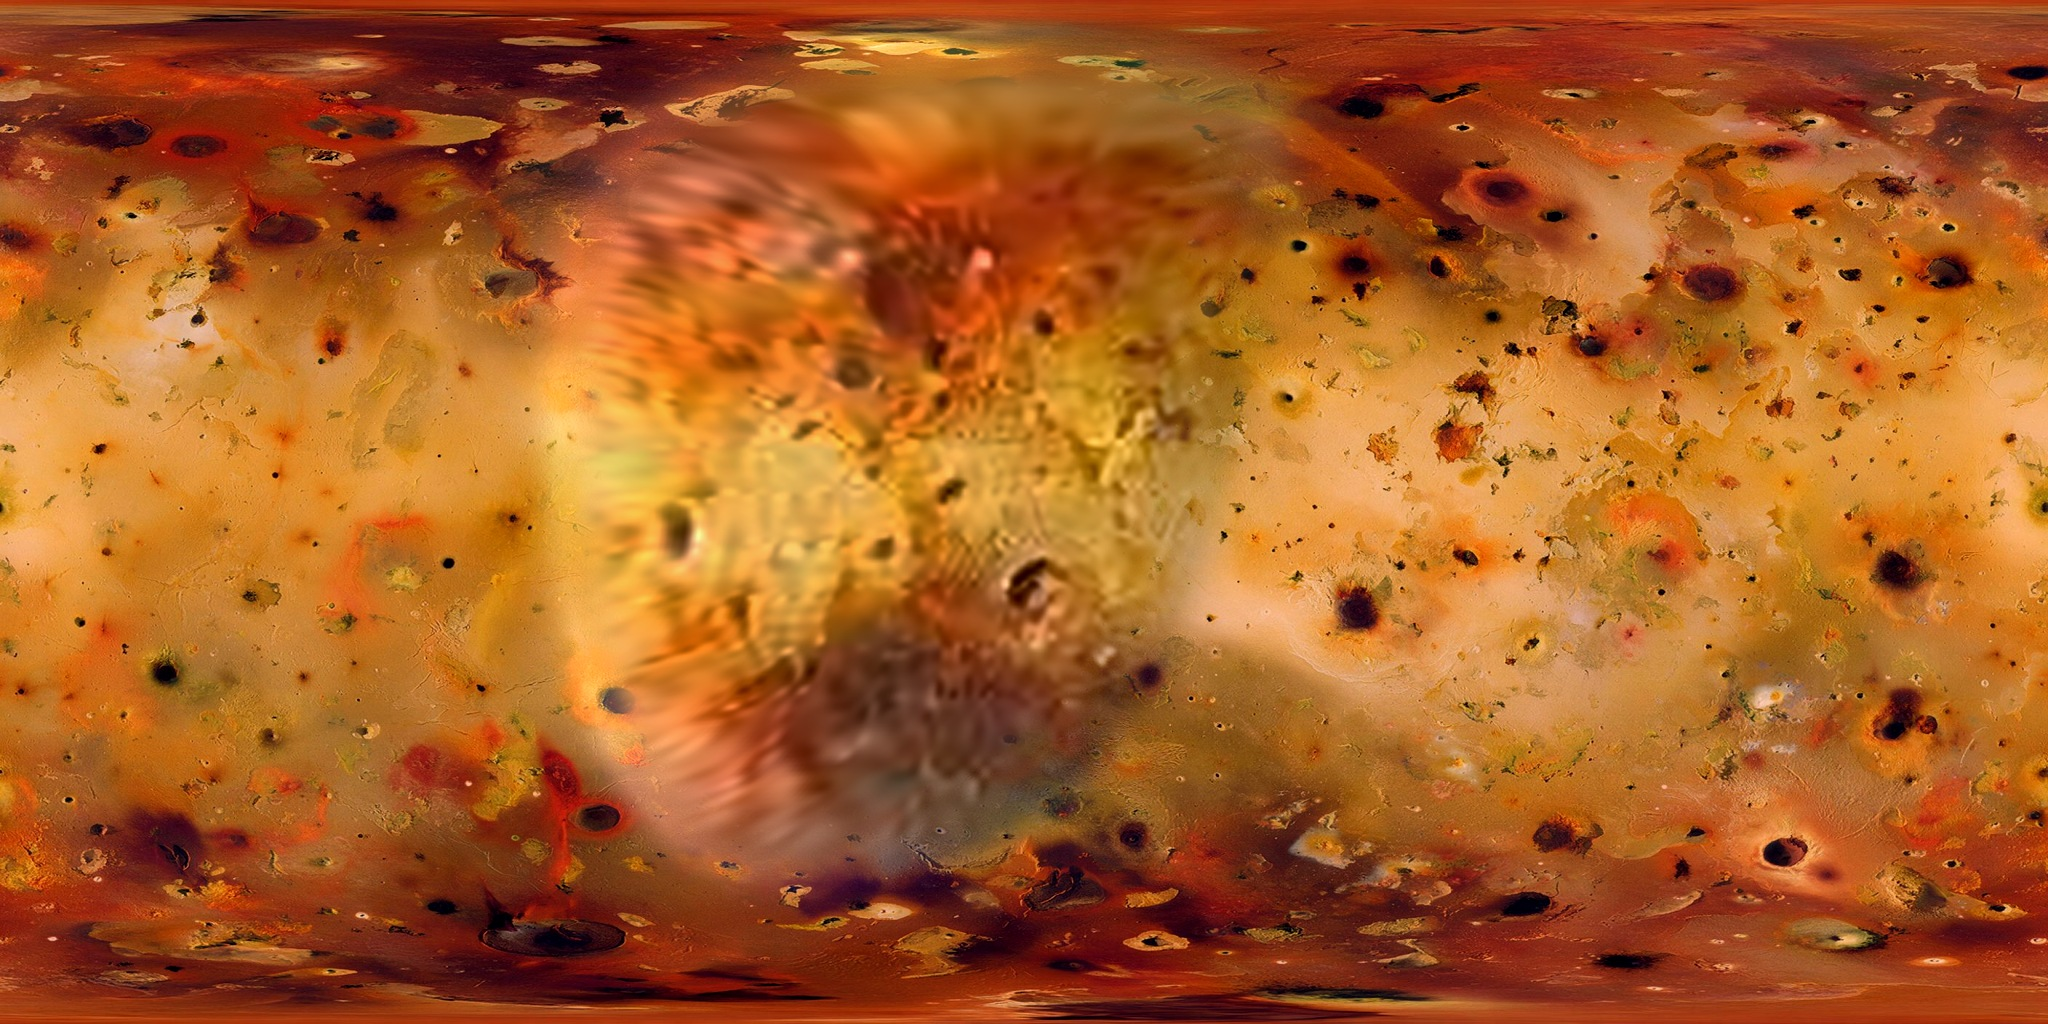
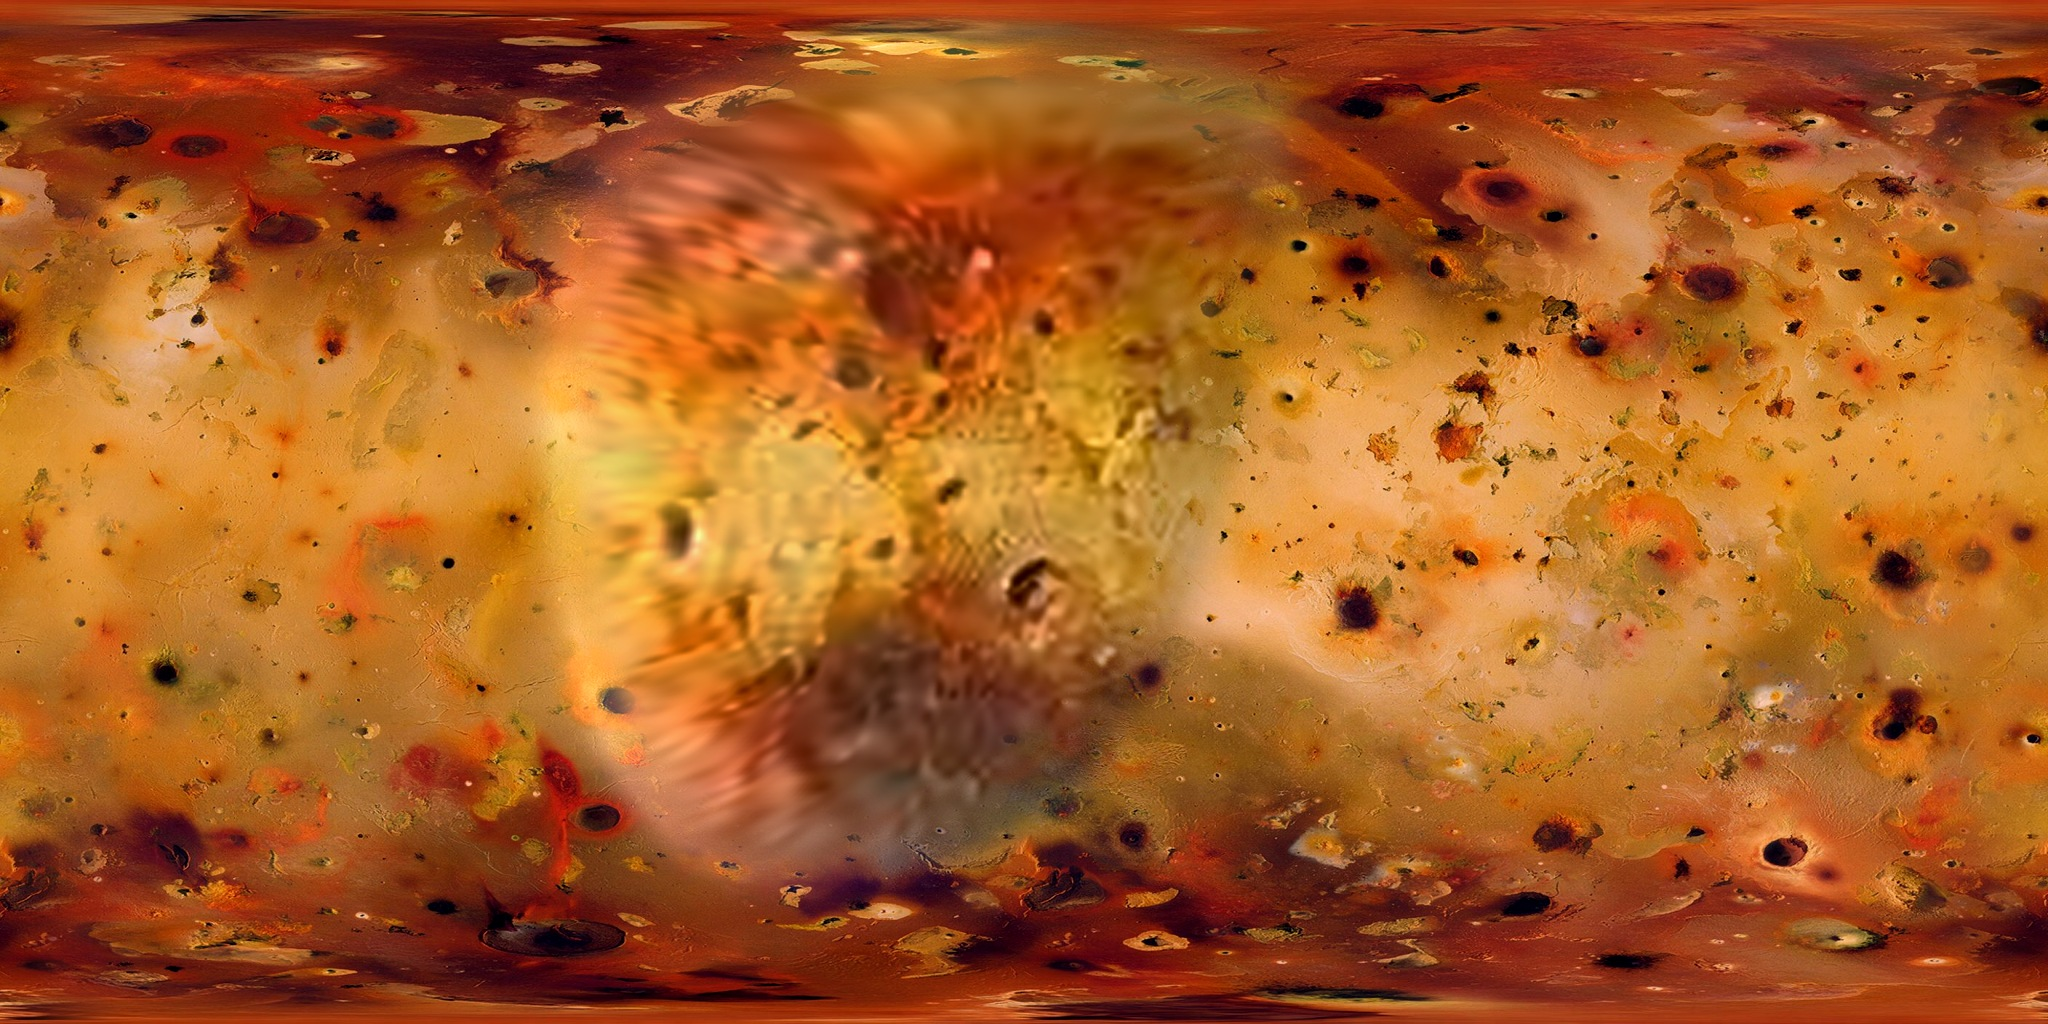
jupiter round 8: night limb fitted to the hero (equatorial bulge, glow, level), air fades with the cover haze, Io map with closed seam, terrain tone settled

Changed region(s): [[0.0, 0.0, 0.0625, 1.0], [0.9375, 0.0, 1.0, 1.0]]

diff --git a/src/stops/jupiter/globe.ts b/src/stops/jupiter/globe.ts
@@ -49,7 +49,7 @@ export interface GlobeOptions {
   nightAlbedo: [number, number, number, number]
   shadow: [number, number, number]
   shadowFade: [number, number]
-  nightRim: { glow: [number, number, number]; power: number; air: number; from: number; to: number }
+  nightRim: { glow: [number, number, number]; power: number; air: number; from: number; to: number; out: number; bulge: number }
   haze: HazeParams
   spot: SpotShape
   wisp: WispParams
@@ -124,6 +124,7 @@ uniform vec2 uShadowFade;
 uniform vec4 uShadowAt;
 uniform vec4 uNightRim;
 uniform vec3 uNightAir;
+uniform vec2 uNightOut;
 uniform vec3 uShadowSun;
 uniform vec3 uSunMap;
 uniform float uFlowT;
@@ -206,12 +207,13 @@ void main() {
   float along = -dot(uCam, dir);
   vec3 nearest = uCam + dir * along;
   float rt = length(nearest);
-  float over = rt - 1.0 + uEdge.y;
+  vec3 n = normalize(rt < 1.0 ? uCam + dir * (along - sqrt(max(1.0 - rt * rt, 0.0))) : nearest);
+  float dusk = 1.0 - smoothstep(uNightAir.x, uNightAir.y, dot(n, uSunW));
+  float axial = (uToBody * n).y;
+  float over = rt - 1.0 + uEdge.y - dusk * uNightOut.x * pow(max(1.0 - axial * axial, 0.0), uNightOut.y);
   float inside = 1.0 - smoothstep(-uEdge.x, uEdge.x, over / max(fwidth(rt), 1e-7));
   float beyond = max(over, 0.0);
   if (uDiag >= 2 && inside < 0.5) discard;
-  vec3 n = normalize(rt < 1.0 ? uCam + dir * (along - sqrt(max(1.0 - rt * rt, 0.0))) : nearest);
-  float dusk = 1.0 - smoothstep(uNightAir.x, uNightAir.y, dot(n, uSunW));
   float air = (uAir.x * exp(-beyond / uAir.y) + uAir.z * exp(-beyond / mix(uAir.w, uNightAir.z, dusk))) * (1.0 - smoothstep(0.6 * uEdge.z, uEdge.z, over));
   vec3 d = spinY(uToBody * n, uSpin);
   vec3 fl;
@@ -279,6 +281,7 @@ ${PATCH_LEVELS}
   for (int k = 0; k < (uPall.x > 0.0 ? 1 : 0); k++) {
     vec4 cloud = pall(vClip.xy / vClip.z);
     float pa = cloud.a * (1.0 - smoothstep(uPallShell.x, uPallShell.y, rt));
+    cover = mix(inside, cover, (1.0 - uPall.x) * (1.0 - uPall.x));
     float total = pa + cover * (1.0 - pa);
     col = (cloud.rgb * uGain * uWeight * pa + col * cover * (1.0 - pa)) / max(total, 1e-5);
     cover = total;
@@ -336,7 +339,7 @@ export class Globe {
         uJet: { value: o.jet.slice() },
         uNight: { value: new THREE.Vector3().fromArray(o.night) }, uNightRef: { value: new THREE.Vector4().fromArray(o.nightAlbedo) },
         uLimbAmount: { value: 1 }, uLimbLit: { value: new THREE.Vector3().fromArray(o.limbLit) }, uLimbSoft: { value: new THREE.Vector2(o.edge.soft[0], Math.max(Math.log2(Math.max(o.mapWidth, 1) / o.edge.soft[1]), 0)) }, uShadeKnee: { value: new THREE.Vector2().fromArray(o.shadeKnee) },
-        uMoon: { value: new THREE.Vector4(0, 0, 0, 0) }, uShadow: { value: new THREE.Vector3().fromArray(o.shadow) }, uShadowFade: { value: new THREE.Vector2().fromArray(o.shadowFade) }, uShadowAt: { value: new THREE.Vector4(0, 0, 0, 0) }, uNightRim: { value: new THREE.Vector4(o.nightRim.glow[0], o.nightRim.glow[1], o.nightRim.glow[2], o.nightRim.power) }, uNightAir: { value: new THREE.Vector3(o.nightRim.from, o.nightRim.to, o.nightRim.air) }, uShadowSun: { value: new THREE.Vector3(1, 0, 0) },
+        uMoon: { value: new THREE.Vector4(0, 0, 0, 0) }, uShadow: { value: new THREE.Vector3().fromArray(o.shadow) }, uShadowFade: { value: new THREE.Vector2().fromArray(o.shadowFade) }, uShadowAt: { value: new THREE.Vector4(0, 0, 0, 0) }, uNightRim: { value: new THREE.Vector4(o.nightRim.glow[0], o.nightRim.glow[1], o.nightRim.glow[2], o.nightRim.power) }, uNightAir: { value: new THREE.Vector3(o.nightRim.from, o.nightRim.to, o.nightRim.air) }, uNightOut: { value: new THREE.Vector2(o.nightRim.out, o.nightRim.bulge) }, uShadowSun: { value: new THREE.Vector3(1, 0, 0) },
         uSunMap: { value: this.sunMap },
         uFlowT: { value: 0 }, uSwirlT: { value: 0 }, uWispT: { value: 0 },
         uWispShape: { value: new THREE.Vector4(w.repeats, w.latScale, w.amount, 1) },

diff --git a/src/stops/jupiter/look.ts b/src/stops/jupiter/look.ts
@@ -8,14 +8,15 @@ import limbJson from './limb.json'
 export const curve = fitted.curve as number[][]
 export const limb = limbJson.limb as number[][]
 export const jet = flowJson.jet as number[]
-export const night = fitted.night as [number, number, number]
-export const nightAlbedo: [number, number, number, number] = [0.43, 0.32, 0.24, 0.08]
+export const nightGain = 0.86
+export const night = (fitted.night as number[]).map((v) => v * nightGain) as [number, number, number]
+export const nightAlbedo: [number, number, number, number] = [0.43, 0.32, 0.24, 0.2]
 
 export const shadeKnee: [number, number] = [2.4, 3.4]
 export const shadow: [number, number, number] = [0.798, 1.098, 0.985]
 export const shadowFade: [number, number] = [0.0, 0.1]
 export const shadowCap = { stretch: 0.35, from: 0.12, to: 0.36 }
-export const nightRim = { glow: [0.0035, 0.005, 0.0075] as [number, number, number], power: 3, air: 0.014, from: -0.05, to: 0.2 }
+export const nightRim = { glow: [0.0015, 0.0027, 0.003] as [number, number, number], power: 3, air: 0.011, from: -0.05, to: 0.2, out: 0.0105, bulge: 3 }
 export const moonSun: [number, number, number] = [-0.713344, 0.254075, 0.653136]
 
 export const haze = hazeJson.ground as HazeParams
@@ -74,8 +75,8 @@ export const deck: DeckLook = {
     { px: [1512, 1914], axes: [0.28, 0.28], degPerSecond: 9, wispDegPerSecond: 14 },
   ],
   collar: [0.12, 0.45, 2.0],
-  tone: [1.085, 1.085, 1.085, 0.08, 0.4],
-  toneHigh: [1.035, 1.045, 1.05],
+  tone: [1.066, 1.077, 1.08, 0.08, 0.4],
+  toneHigh: [1.04, 1.052, 1.06],
   wisp: { tile: 3.2, amount: 0.2, shadow: 0.12, shadowLength: 0.02, fine: 0.5, drift: [0.05, -0.02], fade: [7, 14], sun: [-0.6, 0.8] },
   flashes: [
     { px: [1662, 1449], sizePx: 70, period: 3.1, phase: 0.43, gain: 0.5 },

diff --git a/assets-src/jupiter/NOTES.md b/assets-src/jupiter/NOTES.md
@@ -300,6 +300,19 @@ What is built (all in the stop folder):
 - Item 8 measured again on final 3150 (blurred sigma 6, binned by approved level, lower two thirds): ratio ours over approved 0.96 to 0.985 in every bin, red lowest in the darks. So a gain, not only a dark lift: `deck.tone [1.085, 1.085, 1.085]` on the dark range and new `deck.toneHigh [1.035, 1.045, 1.05]` above it.
 - Side: kept `terrain.side -0.5` (A/B at 3239 against -0.24: both show the single relief stretched at the bottom of the last frames, -0.5 a little more; the gain in sideways travel is worth it).
 
+### Round 8, fourth pass (11:20 to 11:35 UTC)
+
+- Merged main 759b70f (engine batch 12: the sky pass no longer drops out on single frames low over the planet; my frames 3023, 3270, 3271, 3273 were hit) as 6ce0cc6.
+- Item 8 second step, final 3150 against approved (blurred sigma 6, lower two thirds): with `tone [1.085 x3]` and `toneHigh [1.035, 1.045, 1.05]` red overshot (ratio 1.015 to 1.024). The toe of the film curve makes the darks answer with a power of about 1.1, not 1/2.2. Settled: `tone [1.066, 1.077, 1.08, 0.08, 0.4]`, `toneHigh [1.04, 1.052, 1.06]`. Result: middle third +0.5 +0.26 +0.23, lower third -0.1 -0.13 -0.13 levels; bins 0 to 160 within 1 percent. Upper third +1.5 +1.2 +1.1 (horizon band, was +0.8 +0.2 -0.2).
+- `strip_cut3.jpg` (after batch 12): both cuts continuous. Left over: a thin orange rim on the orbit side only (the globe's own air glow outside the pall). Now the air outside the limb fades with `(1 - pall)^2` like the shells (`cover = mix(inside, cover, ...)` in the globe's pall loop).
+- R3 minor (night side a uniform fill): `nightAlbedo` weight 0.08 to 0.3, so the night side carries a little of the cloud map.
+
+### Round 8, fifth pass (11:25 to 11:32 UTC): night limb against the approved hero
+
+- Tool `/tmp/limb.py` (copy in `out/work/jupiter/tools/limb.py`): radial profiles of the hold 2895 against the hero on the night side, fit circle centre (958, 537) r 481 px. Before: the hero's dark limb stands out from the fit circle by 0.001 r at 50 deg from the equator and 0.011 r (5.3 px) on the equator (an equatorial bulge); ours sat on the circle, 1 to 5 px inward (R1's minor). Also the night side inside was 3 to 6 levels too bright in green and blue (the rim glow of the fourth pass and the 0.3 night albedo weight).
+- Fix: `nightRim.out 0.0105`, `bulge 3`: on the night side (`dusk`) the limb moves out by `out * (1 - axial^2)^3` (axial is the normal along the planet's axis). `nightRim.glow [0.0015, 0.0027, 0.003]`, `air 0.011`. `nightAlbedo` weight 0.2 with `nightGain 0.86` so the mean level stays.
+- After (draft 2895): limb mid point equal to the hero's within 1 px at all eight angles (-50 to 55 deg), night level 7.4 to 12.0 against 7.1 to 11.9, inside the limb within 1.5 levels per channel. The 80 percent point lies 1 to 7 px further out than the hero's (the air falloff the motion and native critics asked for).
+
 ### Still to do
 
 - Look at strip r3, final frames, mirrorcheck on final frames, commit the four sky binaries once; merge main; measure; gates; READY.
